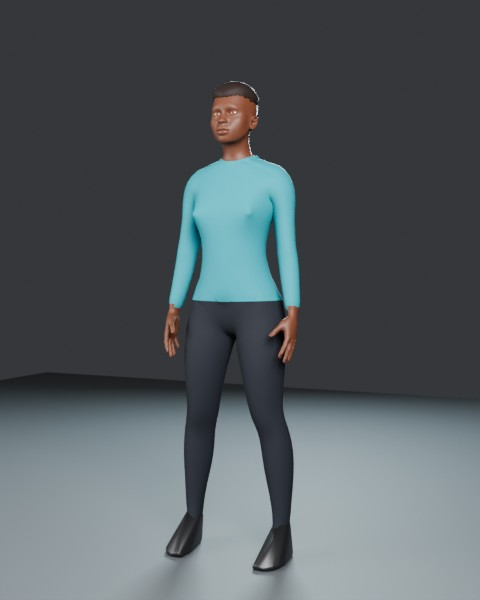
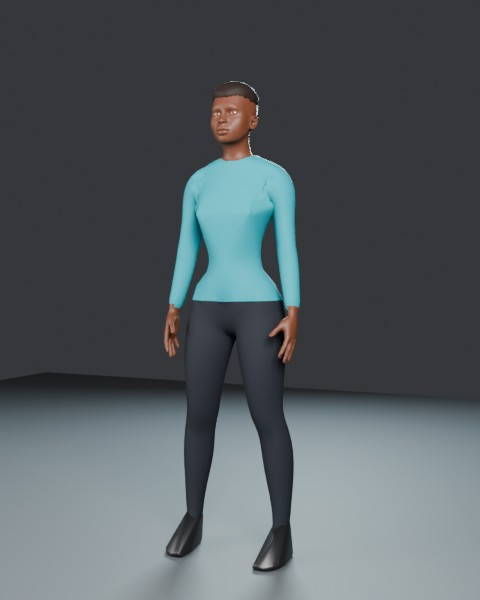
Full-body character: the top drapes over the chest (5 cm Gaussian, twice) and fades into a clean crew neck; person and animation tiles re-rendered
Claude-Session: https://claude.ai/code/session_01HbLNozGKB2ozL5dJ6KHTnA

Changed region(s): [[0.5312, 0.33, 0.5938, 0.48], [0.375, 0.33, 0.4375, 0.48], [0.5312, 0.24, 0.5625, 0.27]]

diff --git a/tools/avatar_body/mpfb_body.py b/tools/avatar_body/mpfb_body.py
@@ -222,13 +222,18 @@ def build():
             for r, n_it in passes.items():
                 sel = (vr == r) & ~edge_v if it < n_it else None
                 if sel is not None: pos[sel] += lam * d[sel]
-    # The chest: a spatial Gaussian average (3 cm), which does not care how dense the skin's quads are, so a top lies
-    # over the bust as one smooth shape instead of following the nipples.
+    # The chest: a spatial Gaussian average (5 cm, twice), which does not care how dense the skin's quads are, so a
+    # top hangs over the bust as one soft shape and never shows chest detail through the fabric.
     tsel = np.where((vr == 'torso') & ~edge_v)[0]; samp = np.where(np.isin(vr, ('torso', 'top')))[0]
-    for chunk in np.array_split(tsel, max(1, len(tsel) // 400)):
-        d2 = ((pos[chunk, None, :] - pos[None, samp, :]) ** 2).sum(-1)
-        w = np.exp(-d2 / (2 * 0.03 ** 2)); w[d2 > 0.08 ** 2] = 0
-        pos[chunk] = (w @ pos[samp]) / w.sum(1, keepdims=True)
+    for _ in range(2):
+        ref = pos.copy()
+        for chunk in np.array_split(tsel, max(1, len(tsel) // 400)):
+            d2 = ((ref[chunk, None, :] - ref[None, samp, :]) ** 2).sum(-1)
+            w = np.exp(-d2 / (2 * 0.05 ** 2)); w[d2 > 0.12 ** 2] = 0
+            smooth = (w @ ref[samp]) / w.sum(1, keepdims=True)
+            # Fade out toward the collar (full effect 8 cm below the neck), so the neckline meets the fabric cleanly.
+            fade = np.clip((neck.z - 0.02 - ref[chunk, 2]) / 0.06, 0.0, 1.0)[:, None]
+            pos[chunk] = ref[chunk] * (1 - fade) + smooth * fade
     pos[:, 2] = np.maximum(pos[:, 2], 0.0)
     for k, vx in enumerate(me.vertices):
         if vregion[k] != 'skin': vx.co = Vector(pos[k])
